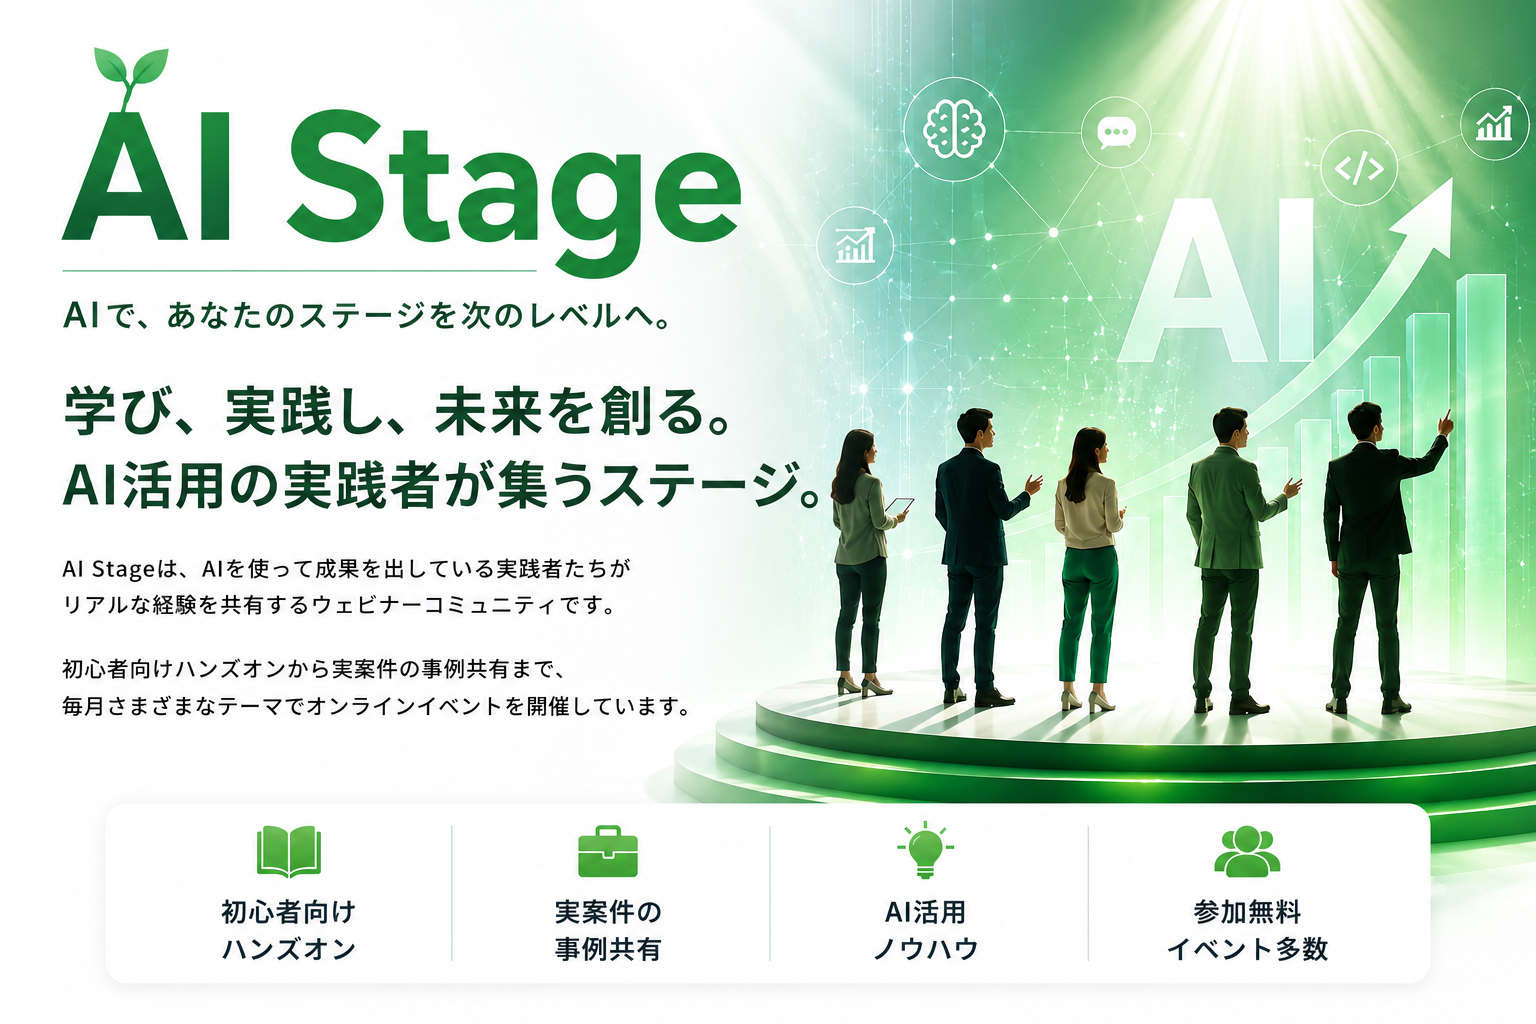
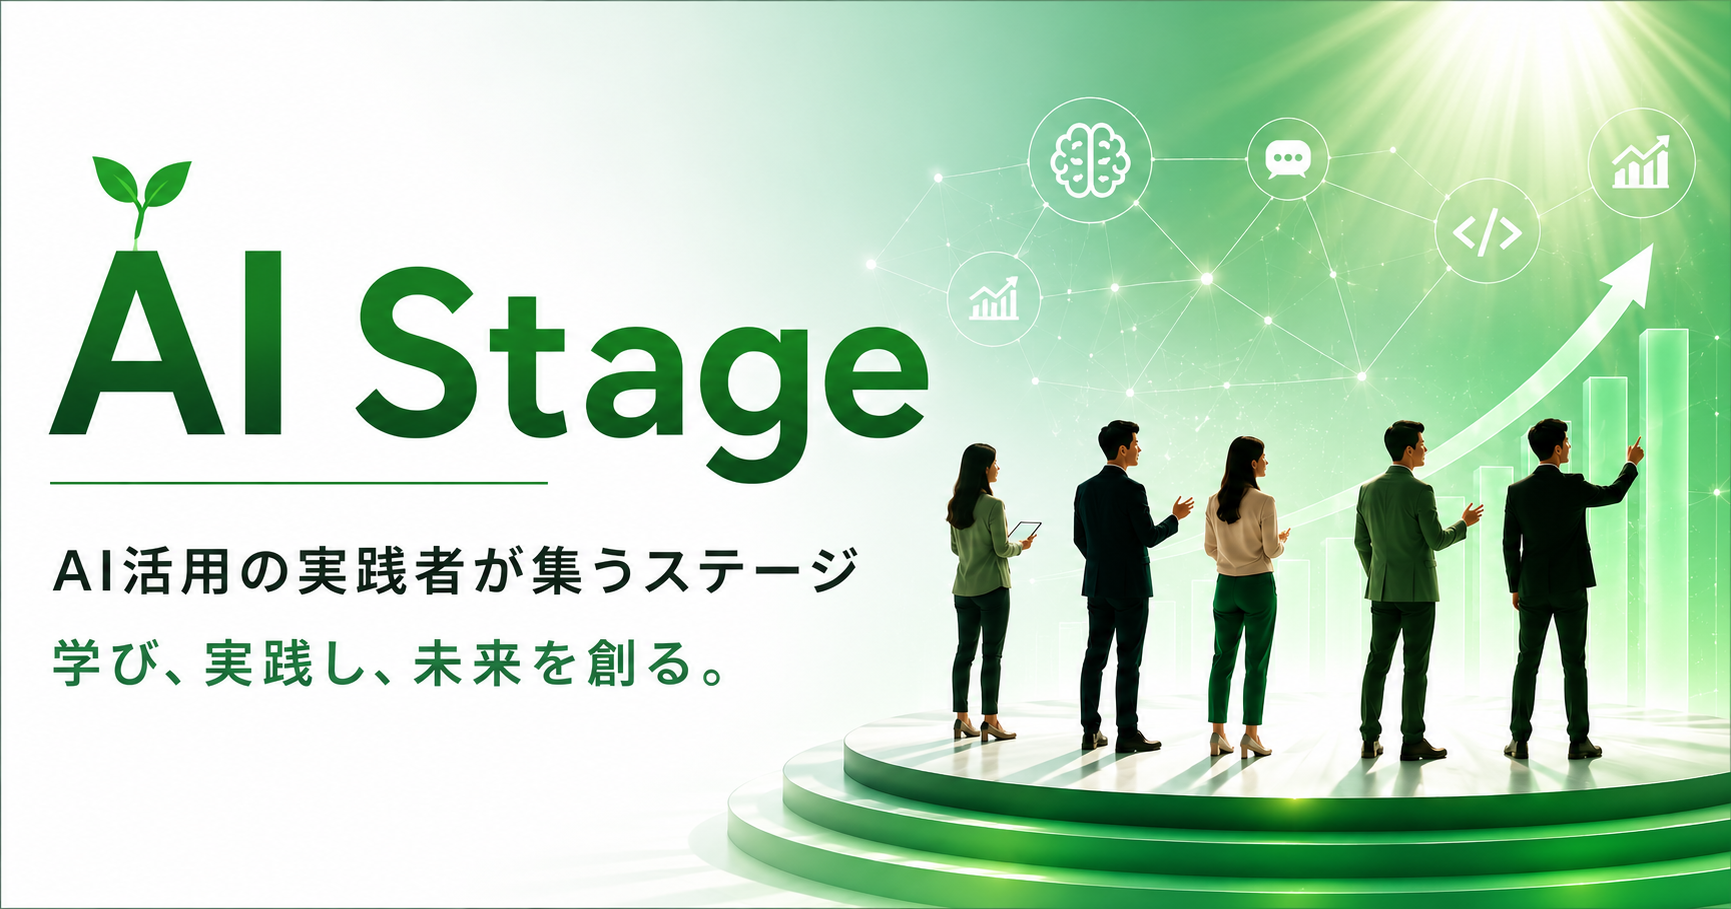
本文フォント21px・ogp.png更新

diff --git a/index.html b/index.html
@@ -54,7 +54,7 @@ body{
   background:var(--bg2);
   color:var(--text);
   line-height:1.85;
-  font-size:22px;
+  font-size:21px;
   -webkit-font-smoothing:antialiased;
 }
 img{display:block;max-width:100%}